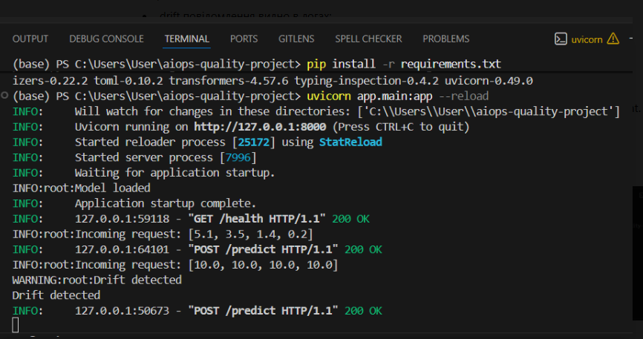
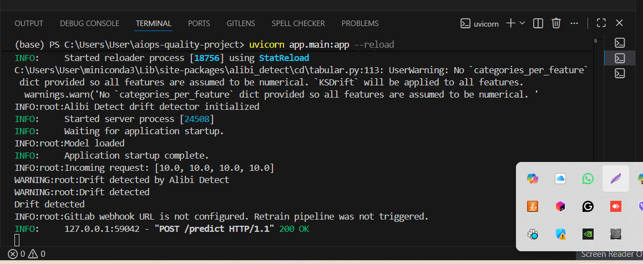
Add Alibi Detect drift detection

diff --git a/app/drift.py b/app/drift.py
@@ -1,0 +1,67 @@
+import logging
+import numpy as np
+
+try:
+    from alibi_detect.cd import TabularDrift
+    ALIBI_AVAILABLE = True
+except Exception:
+    TabularDrift = None
+    ALIBI_AVAILABLE = False
+
+
+REFERENCE_DATA = np.array([
+    [5.1, 3.5, 1.4, 0.2],
+    [4.9, 3.0, 1.4, 0.2],
+    [6.2, 3.4, 5.4, 2.3],
+    [5.9, 3.0, 5.1, 1.8],
+    [6.7, 3.1, 4.7, 1.5],
+    [5.6, 2.7, 4.2, 1.3]
+])
+
+
+class DriftDetector:
+    def __init__(self):
+        self.detector = None
+
+        if ALIBI_AVAILABLE:
+            try:
+                self.detector = TabularDrift(
+                    x_ref=REFERENCE_DATA,
+                    p_val=0.05
+                )
+                logging.info("Alibi Detect drift detector initialized")
+            except Exception as error:
+                logging.warning(
+                    f"Failed to initialize Alibi Detect: {error}"
+                )
+
+    def detect(self, features):
+
+        data = np.array([features])
+
+        if self.detector is not None:
+            try:
+                prediction = self.detector.predict(data)
+
+                is_drift = (
+                    prediction["data"]["is_drift"] == 1
+                )
+
+                if is_drift:
+                    logging.warning(
+                        "Drift detected by Alibi Detect"
+                    )
+                    return True
+
+            except Exception as error:
+                logging.warning(
+                    f"Alibi Detect failed: {error}"
+                )
+
+        if np.mean(features) > 5:
+            logging.warning(
+                "Drift detected by fallback detector"
+            )
+            return True
+
+        return False

diff --git a/app/main.py b/app/main.py
@@ -2,7 +2,6 @@ import os
 import time
 import logging
 import joblib
-import numpy as np
 import requests
 
 from fastapi import FastAPI
@@ -10,6 +9,8 @@ from pydantic import BaseModel
 
 from prometheus_client import Counter, Histogram, generate_latest
 from fastapi.responses import Response
+
+from app.drift import DriftDetector
 
 
 MODEL_PATH = os.getenv("MODEL_PATH", "model/model.joblib")
@@ -35,6 +36,7 @@ drift_counter = Counter(
 )
 
 model = None
+drift_detector_service = DriftDetector()
 
 
 @app.on_event("startup")
@@ -69,15 +71,16 @@ def trigger_retrain_pipeline():
         logging.error(f"Failed to trigger retrain pipeline: {error}")
 
 
-def drift_detector(features):
-    if np.mean(features) > 5:
+def detect_drift(features):
+    is_drift = drift_detector_service.detect(features)
+
+    if is_drift:
         drift_counter.inc()
         logging.warning("Drift detected")
         print("Drift detected")
         trigger_retrain_pipeline()
-        return True
 
-    return False
+    return is_drift
 
 
 @app.post("/predict")
@@ -88,7 +91,7 @@ def prediction(request: PredictionRequest):
 
     logging.info(f"Incoming request: {request.features}")
 
-    drift_detector(request.features)
+    detect_drift(request.features)
 
     result = predict(request.features)
 
